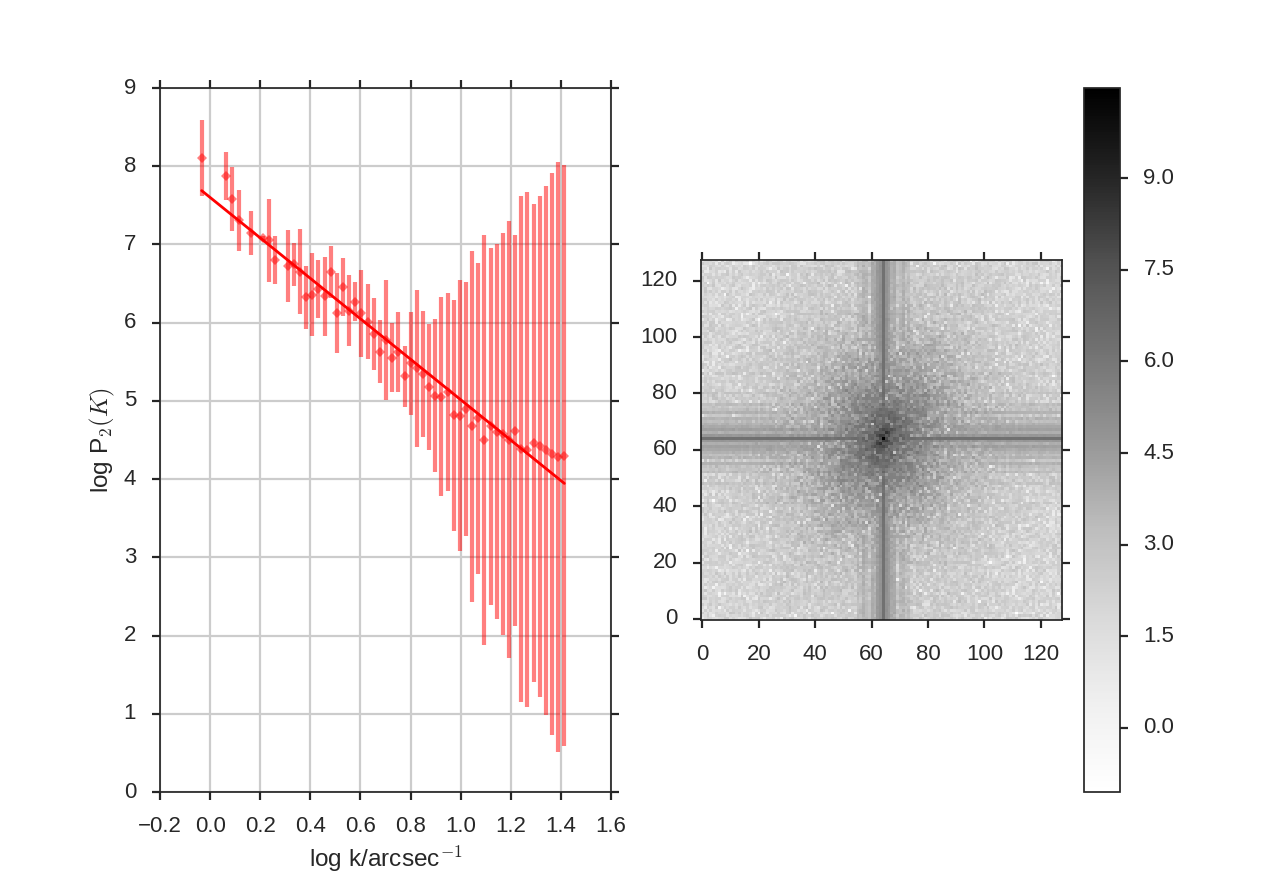
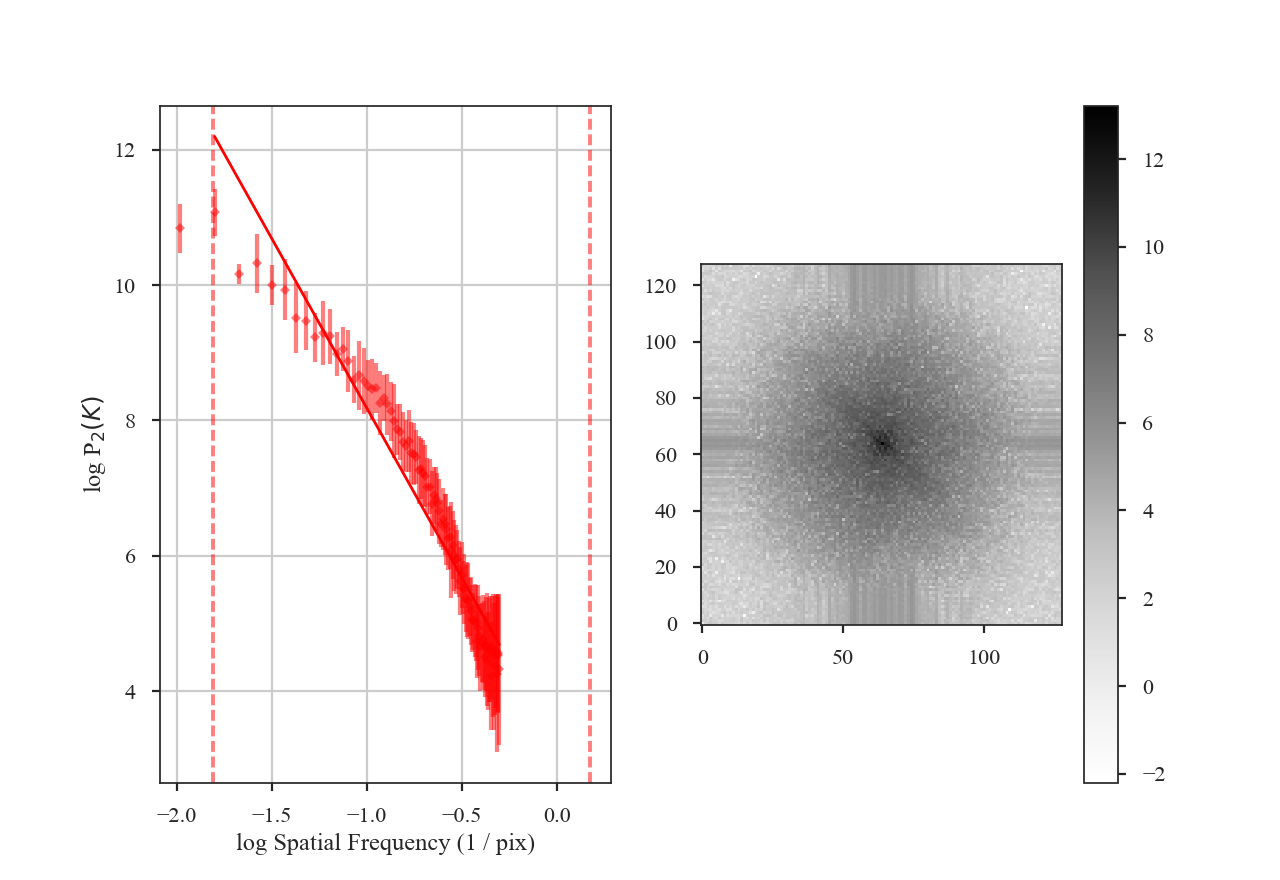
Updated power spec tutorial

diff --git a/docs/tutorials/statistics/pspec_example.rst b/docs/tutorials/statistics/pspec_example.rst
@@ -1,3 +1,4 @@
+.. _pspec_tutorial:
 
 **********************
 Spatial Power Spectrum
@@ -6,7 +7,7 @@ Spatial Power Spectrum
 Overview
 --------
 
-A common analysis technique for two-dimensional images is the spatial power spectrum, the square of the 2D Fourier transform of the image. A radial profile of the 2D power spectrum gives the 1D power spectrum. The slope of this 1D spectrum can be compared to the expected indexes in different physical limits. For example, Kolmogorov turbulence follows :math:`k^{-5/3}` and Burgers' turbulence follows :math:`k^{-2}` (XXX These need a minus 1, I think? XXX).
+A common analysis technique for two-dimensional images is the spatial power spectrum -- the square of the 2D Fourier transform of the image. A radial profile of the 2D power spectrum gives the 1D power spectrum. The slope of this 1D spectrum can be compared to the expected indices in different physical limits. For example, the velocity field of Kolmogorov turbulence follows :math:`k^{-5/3}`, while Burgers' turbulence has :math:`k^{-2}`. However, observations are a combination of both velocity and density fluctuations (e.g., :ref:`Lazarian & Pogosyan 2000 <_ref-lp00>`), and the measured index from an integrated intensity map depend on both components, as well as optical depth effects. For a turbulent optically thin tracer, an integrated intensity image (or zeroth moment) will have :math:`k^{-11/3}`, while an optically thick tracer saturates to :math:`k^{-3}` (:ref:`Lazarian & Pogosyan 2004 <_ref-lp04>`, :ref:`Burkhart et al. 2013 <_ref-burkhart2013>`). The effect of velocity resolution is discussed in the :ref:`VCA tutorial <vca_tutorial>`.
 
 
 Using
@@ -21,67 +22,78 @@ We need to import the `~turbustat.statistics.PowerSpectrum` code, along with a f
 
 And we load in the data:
 
-    >>> moment0 = fits.open("Design4_21_0_0_flatrho_0021_13co.moment0.fits")[0]  # doctest: +SKIP
+    >>> moment0 = fits.open("Design4_flatrho_0021_00_radmc_moment0.fits")[0]  # doctest: +SKIP
 
 The power spectrum is computed using:
 
-    >>> pspec = PowerSpectrum(moment0)  # doctest: +SKIP
-    >>> pspec.run(verbose=True, ang_units=True, unit=u.arcsec)  # doctest: +SKIP
-                                OLS Regression Results
-    ==============================================================================
-    Dep. Variable:                      y   R-squared:                       0.971
-    Model:                            OLS   Adj. R-squared:                  0.970
-    Method:                 Least Squares   F-statistic:                     1719.
-    Date:                Tue, 11 Oct 2016   Prob (F-statistic):           1.62e-41
-    Time:                        18:29:35   Log-Likelihood:                 16.391
-    No. Observations:                  54   AIC:                            -28.78
-    Df Residuals:                      52   BIC:                            -24.80
-    Df Model:                           1
-    Covariance Type:            nonrobust
-    ==============================================================================
-                     coef    std err          t      P>|t|      [95.0% Conf. Int.]
-    ------------------------------------------------------------------------------
-    const          3.1441      0.065     48.138      0.000         3.013     3.275
-    x1            -2.5851      0.062    -41.461      0.000        -2.710    -2.460
-    ==============================================================================
-    Omnibus:                        3.193   Durbin-Watson:                   0.845
-    Prob(Omnibus):                  0.203   Jarque-Bera (JB):                3.006
-    Skew:                           0.564   Prob(JB):                        0.222
-    Kurtosis:                       2.751   Cond. No.                         5.08
-    ==============================================================================
-
-
-.. image:: images/design4_pspec.png
-
-The power spectrum of this simulation has a slope of :math:`-2.59\pm0.06`. The spatial frequencies (in **pixels**) used in the fit can be limited by setting `low_cut` and `high_cut`. For example,
-
-    >>> pspec.run(verbose=True, ang_units=True, unit=u.arcsec, low_cut=0.02, high_cut=0.2)  # doctest: +SKIP
+    >>> pspec = PowerSpectrum(moment0, distance=500 * u.pc)  # doctest: +SKIP
+    >>> pspec.run(verbose=True, xunit=u.pix**-1)  # doctest: +SKIP
                                 OLS Regression Results
     ==============================================================================
     Dep. Variable:                      y   R-squared:                       0.970
-    Model:                            OLS   Adj. R-squared:                  0.970
-    Method:                 Least Squares   F-statistic:                     1148.
-    Date:                Thu, 27 Oct 2016   Prob (F-statistic):           2.38e-28
-    Time:                        21:05:20   Log-Likelihood:                 20.760
-    No. Observations:                  37   AIC:                            -37.52
-    Df Residuals:                      35   BIC:                            -34.30
+    Model:                            OLS   Adj. R-squared:                  0.969
+    Method:                 Least Squares   F-statistic:                     1017.
+    Date:                Mon, 03 Jul 2017   Prob (F-statistic):           7.94e-26
+    Time:                        18:40:13   Log-Likelihood:                 15.718
+    No. Observations:                  34   AIC:                            -27.44
+    Df Residuals:                      32   BIC:                            -24.38
     Df Model:                           1
     Covariance Type:            nonrobust
     ==============================================================================
-                     coef    std err          t      P>|t|      [95.0% Conf. Int.]
+                     coef    std err          t      P>|t|      [0.025      0.975]
     ------------------------------------------------------------------------------
-    const          2.7832      0.100     27.781      0.000         2.580     2.987
-    x1            -2.8618      0.084    -33.883      0.000        -3.033    -2.690
+    const          5.1333      0.109     47.020      0.000       4.911       5.356
+    x1            -3.2859      0.103    -31.896      0.000      -3.496      -3.076
     ==============================================================================
-    Omnibus:                        2.438   Durbin-Watson:                   1.706
-    Prob(Omnibus):                  0.296   Jarque-Bera (JB):                1.614
-    Skew:                           0.504   Prob(JB):                        0.446
-    Kurtosis:                       3.180   Cond. No.                         8.59
+    Omnibus:                        5.932   Durbin-Watson:                   0.798
+    Prob(Omnibus):                  0.052   Jarque-Bera (JB):                4.380
+    Skew:                          -0.796   Prob(JB):                        0.112
+    Kurtosis:                       3.745   Cond. No.                         7.99
+    ==============================================================================
+
+.. image:: images/design4_pspec.png
+
+The power spectrum of this simulation has a slope of :math:`-3.3\pm0.1`, but the power-spectrum deviates from a power-law on small scales. This is due to the the limited inertial range in this simulation. The spatial frequencies used in the fit can be limited by setting `low_cut` and `high_cut`. The inputs should have frequency units in pixels, angle, or physical units. For example,
+
+    >>> pspec.run(verbose=True, xunit=u.pix**-1, low_cut=0.02 / u.pix, high_cut=0.1 / u.pix)  # doctest: +SKIP
+                                OLS Regression Results
+    ==============================================================================
+    Dep. Variable:                      y   R-squared:                       0.952
+    Model:                            OLS   Adj. R-squared:                  0.948
+    Method:                 Least Squares   F-statistic:                     255.7
+    Date:                Mon, 03 Jul 2017   Prob (F-statistic):           6.26e-10
+    Time:                        18:40:25   Log-Likelihood:                 10.458
+    No. Observations:                  15   AIC:                            -16.92
+    Df Residuals:                      13   BIC:                            -15.50
+    Df Model:                           1
+    Covariance Type:            nonrobust
+    ==============================================================================
+                     coef    std err          t      P>|t|      [0.025      0.975]
+    ------------------------------------------------------------------------------
+    const          5.8480      0.220     26.566      0.000       5.372       6.324
+    x1            -2.7359      0.171    -15.991      0.000      -3.106      -2.366
+    ==============================================================================
+    Omnibus:                        0.822   Durbin-Watson:                   2.075
+    Prob(Omnibus):                  0.663   Jarque-Bera (JB):                0.621
+    Skew:                          -0.448   Prob(JB):                        0.733
+    Kurtosis:                       2.562   Cond. No.                         13.5
     ==============================================================================
 
 .. image:: images/design4_pspec_limitedfreq.png
 
-Depending on the inertial range and the noise in the data, you may wish to set limits to recover the correct spatial power spectrum slope. In this case, these limits lead to a steeper slope - :math:`-2.86\pm0.08`.
+When limiting the fit to the inertial range, the slope is :math:`-2.7\pm0.2`. `low_cut` and `high_cut` can also be given as spatial frequencies in angular units (e.g., `u.deg**-1`). And since a distance was specified, the `low_cut` and `high_cut` can also be given in physical frequency units (e.g., `u.pc**-1`).
 
 References
 ----------
+
+.. _ref-burkhart2013:
+
+`Burkhart et al. 2013 <https://ui.adsabs.harvard.edu/#abs/2013ApJ...771..123B/abstract>`_
+
+.. _ref-lp04:
+
+`Lazarian & Pogosyan 2004 <https://ui.adsabs.harvard.edu/#abs/2004ApJ...616..943L/abstract>`_
+
+.. _ref-lp00:
+
+`Lazarian & Pogosyan 2000 <https://ui.adsabs.harvard.edu/#abs/2000ApJ...537..720L/abstract>`_
